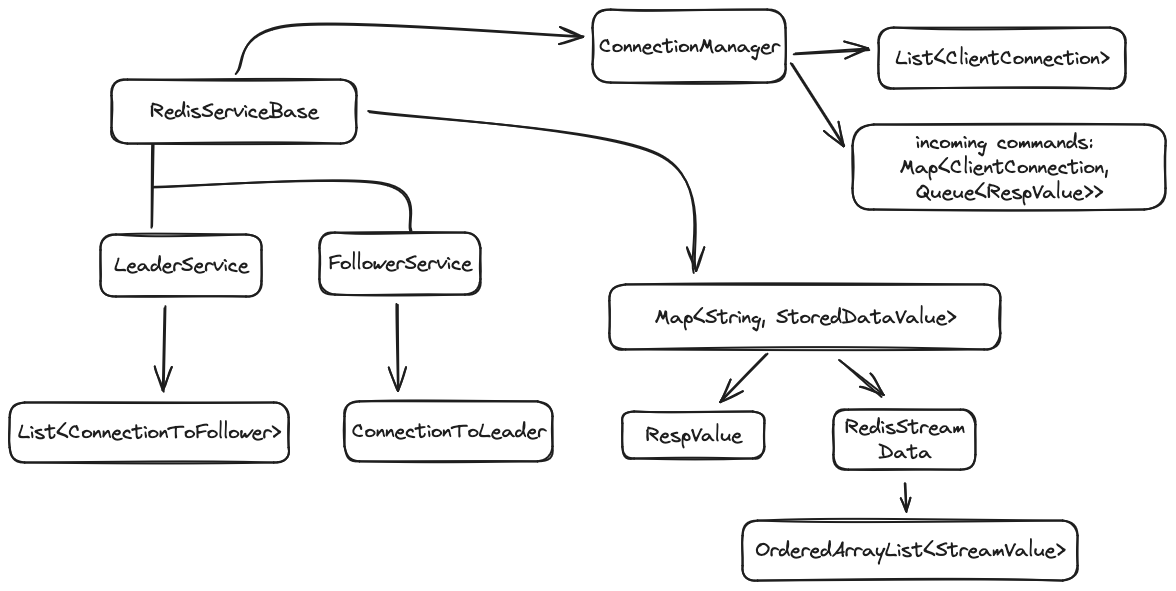
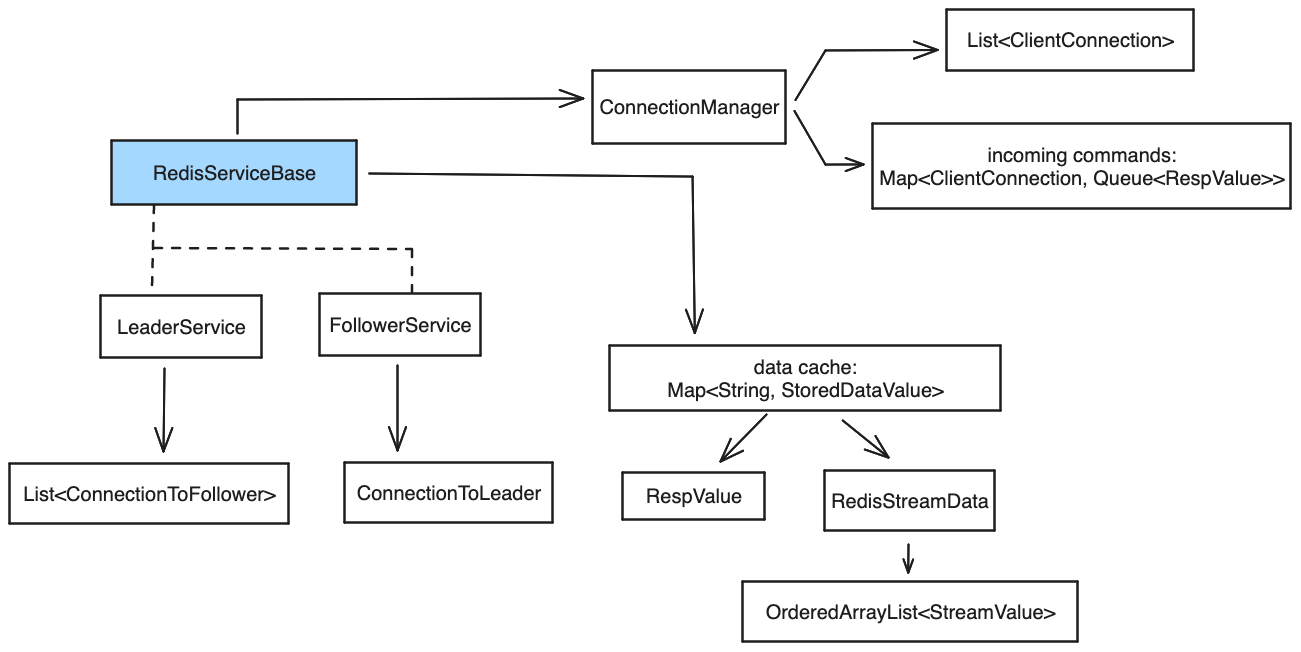
write up README.md with diagram of my code

Changed region(s): [[0.0, 0.0, 1.0, 1.0], [0.5204, 0.335, 0.551, 0.3959]]

diff --git a/README.md b/README.md
@@ -1,35 +1,53 @@
-[![progress-banner](https://backend.codecrafters.io/progress/redis/5400e089-5d31-424a-a661-030113c0536e)](https://app.codecrafters.io/users/codecrafters-bot?r=2qF)
+# Java Redis Service
+## By Jeffrey Schang
 
-This is a starting point for Java solutions to the
-["Build Your Own Redis" Challenge](https://codecrafters.io/challenges/redis).
+[![progress-banner](resources/diagram1.png)](resources/diagram1.png)
 
-In this challenge, you'll build a toy Redis clone that's capable of handling
-basic commands like `PING`, `SET` and `GET`. Along the way we'll learn about
-event loops, the Redis protocol and more.
+### Java solution to the ["Build Your Own Redis" Challenge](https://codecrafters.io/challenges/redis) from [codecrafters.io](https://app.codecrafters.io)
 
-**Note**: If you're viewing this repo on GitHub, head over to
-[codecrafters.io](https://codecrafters.io) to try the challenge.
+In this challenge, I have used the [codecrafters.io](https://app.codecrafters.io) platform to build a Redis clone step by step with some of the functionality of Redis. The base challenge includes implementing several basic commands like `PING` , `SET` and `GET` , and expiring keys. Along the way I've crafted (and refactored) the event loop, services, Redis serialization and more.
 
-# Passing the first stage
+**Note**: If you want to see more details  about the stages and how to do it yourself, head over to
+[codecrafters.io](https://codecrafters.io) to try for yourself.
 
-The entry point for your Redis implementation is in `src/main/java/Main.java`.
-Study and uncomment the relevant code, and push your changes to pass the first
-stage:
+# Stages of development
 
-```sh
-git add .
-git commit -m "pass 1st stage" # any msg
-git push origin master
-```
+## Base stage
 
-That's all!
+The basic steps include setting up a server TCP connection which accepts incoming connections, handle basic commands and responses on those, then adding support for multiple clients.
 
-# Stage 2 & beyond
+For example, in Java the [ServerSocket.accept](https://docs.oracle.com/javase/8/docs/api/java/net/ServerSocket.html#accept--) method blocks while waiting. In [this commit](https://github.com/schangj09/codecrafters-redis/commit/dd7eeb89a771a7497328a17a1ad4caf67ef713fc), I created a separate thread for waiting on new connections and refactored the processing loop into a separate class that can process commands and send responses.
 
-Note: This section is for stages 2 and beyond.
+I implemented a class hirearchy to represent the data types of the Resp protocol. And a separate hirearchy to represent the commands of the Redis protocol.
 
-1. Ensure you have `java (1.8)` installed locally
-1. Run `./spawn_redis_server.sh` to run your Redis server, which is implemented
-   in `src/main/java/Main.java`.
-1. Commit your changes and run `git push origin master` to submit your solution
-   to CodeCrafters. Test output will be streamed to your terminal.
+## Extensions - Replication
+
+In this extension, I've added support for running the instance as a replication "follower" servicer. This includes handling a handshake protocol for starting up the replication service as well as ACK responses from the follower to the leader.
+
+The final stages of replication added the WAIT command, which blocks until getting responses from replication servers. However, the blocking command uncovered a significant flaw in my original design, that required a fair amount of refactoring. I had originally designed the event loop in the main thread to handle one command at a time. So, a blocking call meant that the main thread couldn't read the ACK responses from the connected replication servers.
+
+I solved this by refactoring the EventLoop to separate reading new commands from the input stream into a separate thread for reading with a shared queue of input values. Then the command loop polls the input queue instead of reading directly from the input stream. This cahnges was also essential to support blocking reads in the last extension for [Streams](#extensions---streams).
+
+## Extensions - RDB
+
+This extension provides steps to implement reading the input state from a file in the Redis RDB format. It adds support for the command line options `--dbfilename` and `--dir` . This challenge includes parsing the input file and initializing the in-memory data map with stored values and expiration timestamps.
+
+## Extensions - Streams
+
+This extension adds support for `XADD` , `XRANGE` and `XREAD` with blocking. The primary challenges included blocking on read and supporting multiple streams with auto incrementing ids.
+
+# Structure
+
+The entry point for the Redis implementation is in [`Main`](src/main/java/Main.java).
+
+The program is divided into separation of concerns with a modules for the service itself, handling of connections, classes for parsing options, the serialization protocol and commands. The [`ConnectionManager`](src/main/java/org/baylight/redis/ConnectionManager.java) owns the connections from clients and it owns the thread to process incoming commands. The service classes [`LeaderService`](src/main/java/org/baylight/redis/LeaderService.java) and [`FollowerService`](src/main/java/org/baylight/redis/FollowerService.java) inherit shared functionality in [`RedisServiceBase`](src/main/java/org/baylight/redis/RedisServiceBase.java). These classes own the main processing loop for commands and they provides the methods that implement each of the commands.
+
+Most commands are synchronous commands and execute on the main processor thread, so the service primarly executes commands sequentially on a single thread. However, the command can identify itself as a blocking command, in which case, the processing loop will execute it on a separate thread (allocated through a Java cached thread pool - see [Executors.newCachedThreadPool](https://docs.oracle.com/javase/8/docs/api/java/util/concurrent/Executors.html#newCachedThreadPool-java.util.concurrent.ThreadFactory-)).
+
+For the special case of a replication service, it has a regular ServerSocket for accepting connections, but it also opens a client connection to the leader server. There is a handshake with the leader that is implemented in the [ConnectionToLeader](src/main/java/org/baylight/redis/ConnectionToLeader.java) class, but after that is complete, the ownership of the socket connection to leader is transferred to the [ConnectionManager](src/main/java/org/baylight/redis/ConnectionManager.java) and all future inputs from the leader are treated as incoming commands to the replication server (replicated commands or `PING` or `GETACK` requests from the leader).
+
+There is a [protocol package](src/main/java/org/baylight/redis/protocol) with classes that represent input and output data. All input and output on the stream is represented as a [Redis Serialization Protocol (RESP)](https://redis.io/docs/reference/protocol-spec/) object. Commands are usually represented as a [Resp Array](https://redis.io/docs/reference/protocol-spec/#arrays).
+
+The [commands package](src/main/java/org/baylight/redis/commands) includes a class for each supported command. The [`ArgReader`](src/main/java/org/baylight/redis/commands/ArgReader.java) provides functionality for declaring and validating a set of expected optional and required arguments to command. This enables common validation processing and error messages for invalid command arguments.
+
+There are 2 more packages to support the extensions for databases [rdb](src/main/java/org/baylight/redis/rdb) and [streams](src/main/java/org/baylight/redis/streams).
